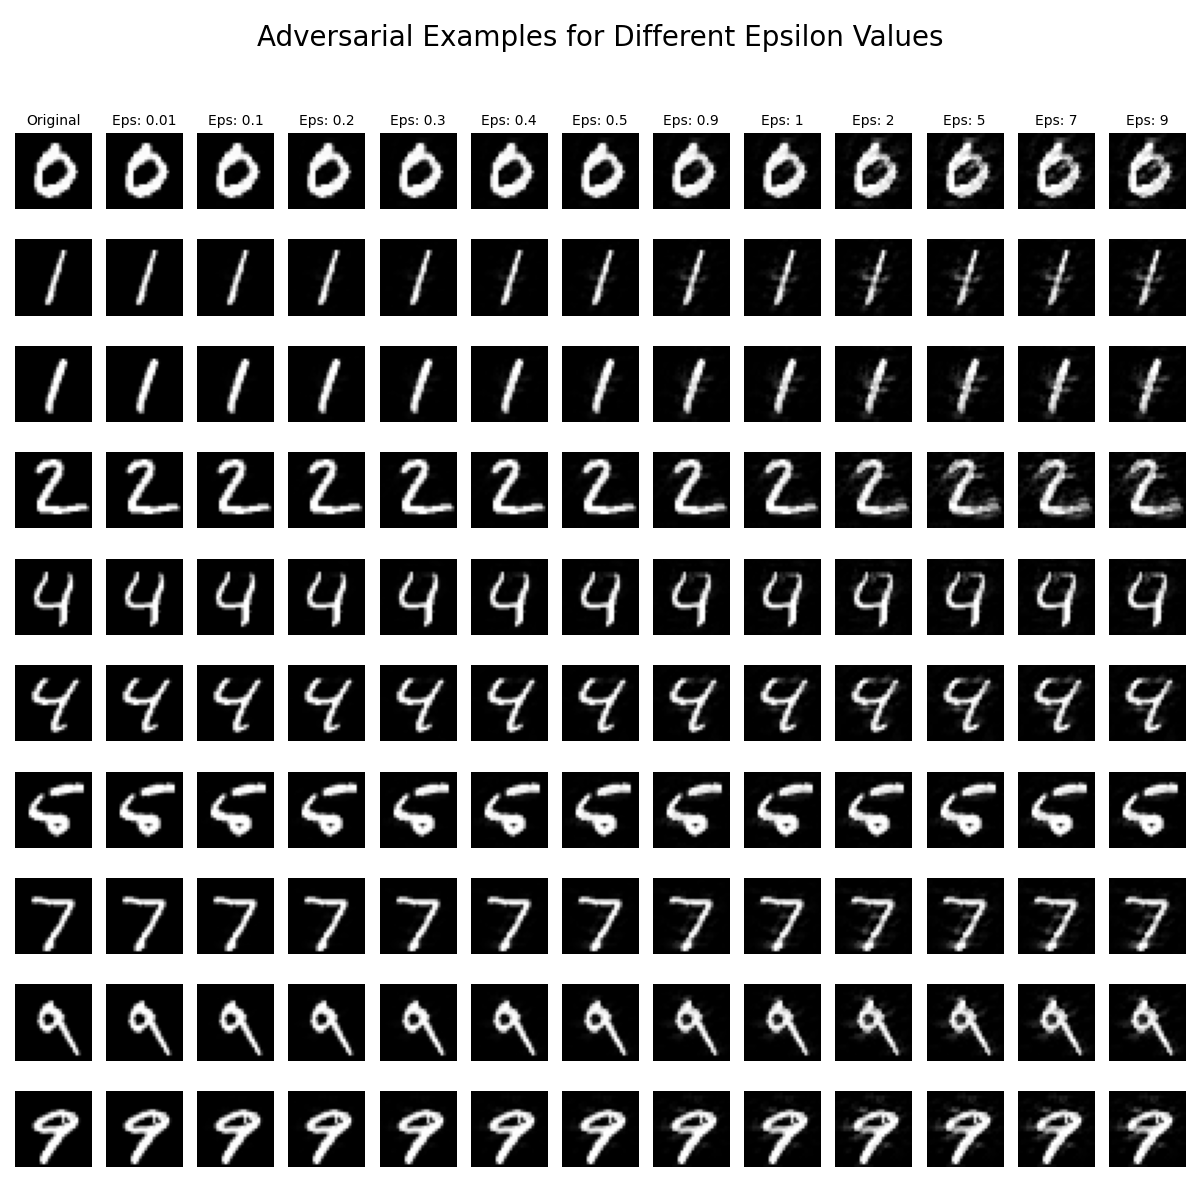
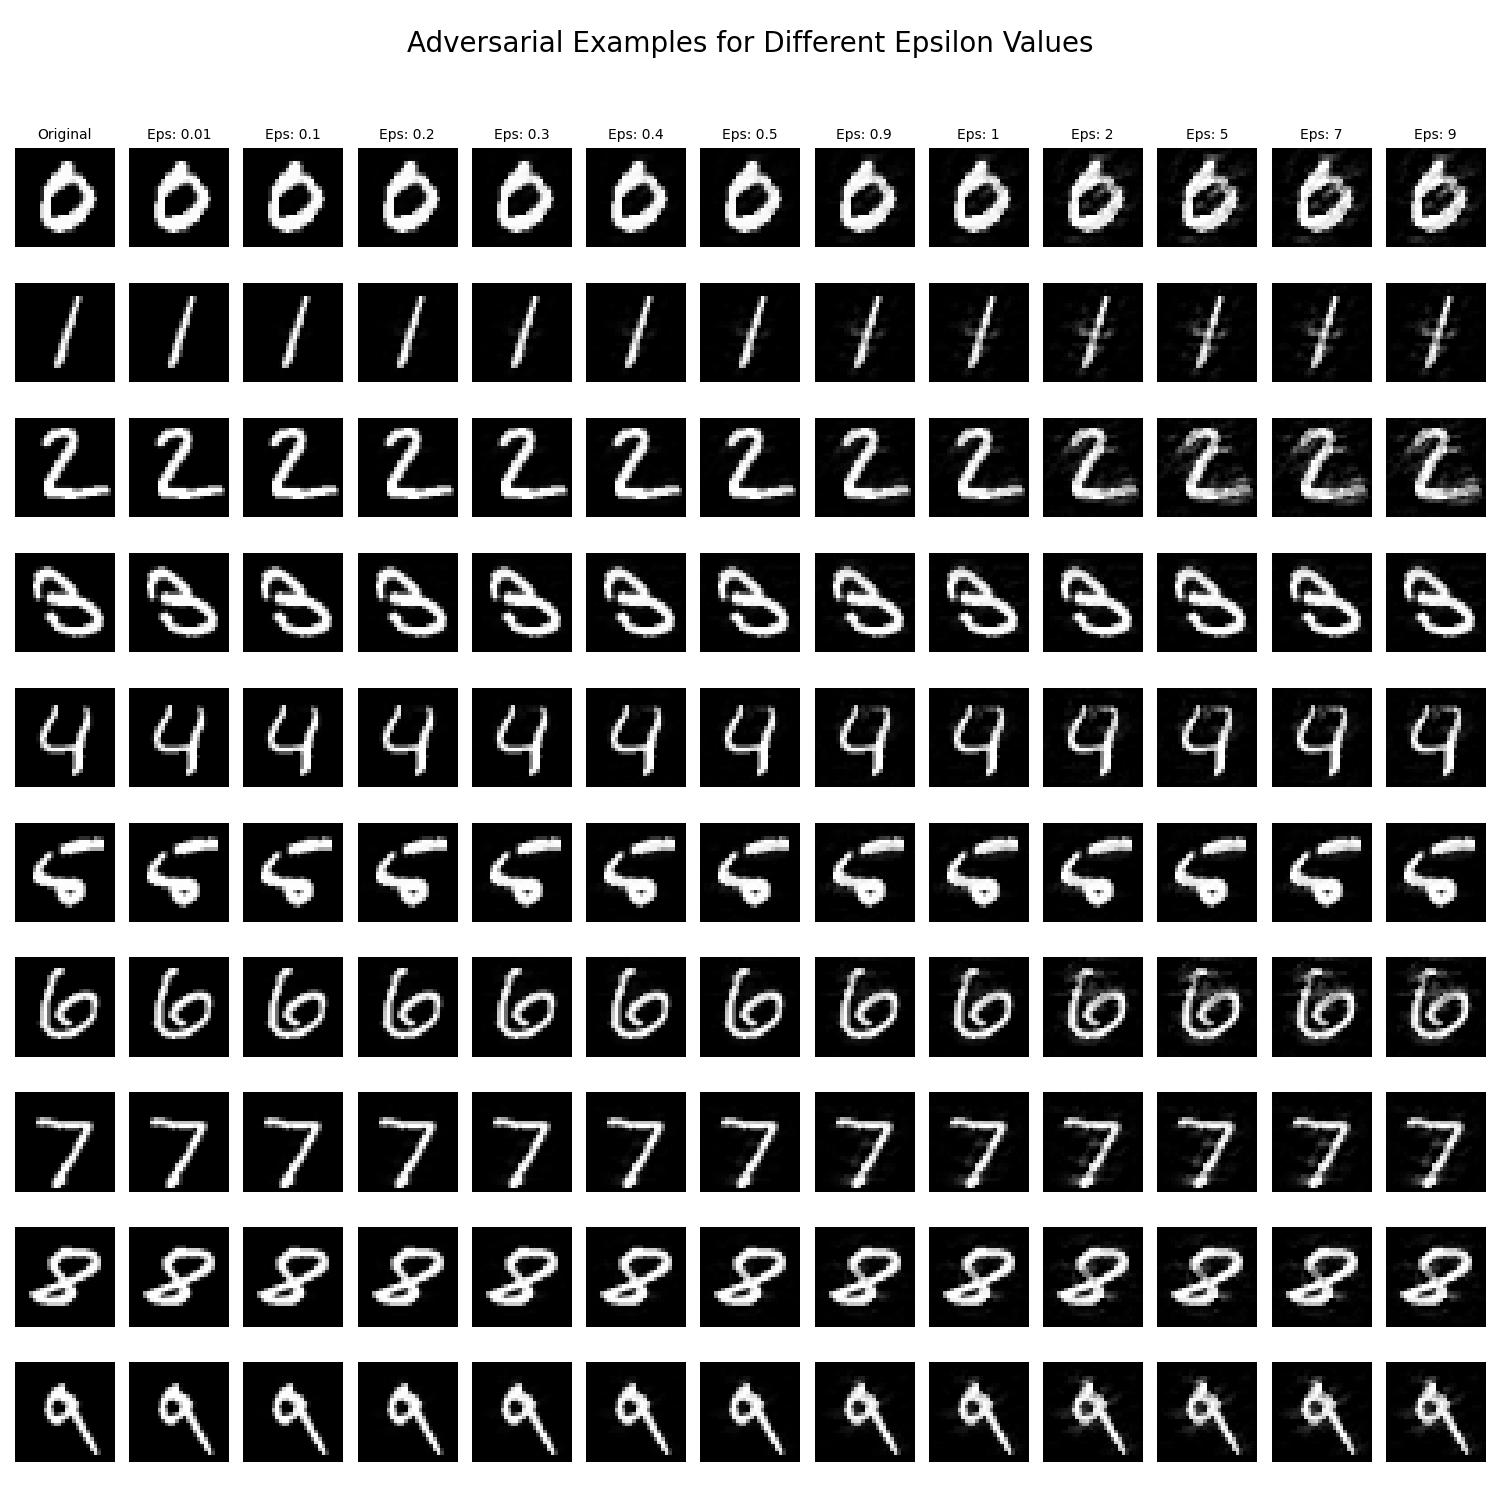
[edit] Fixed missing values in visualization

Changed region(s): [[0.0, 0.0, 1.0, 0.9867], [0.0, 0.925, 0.5242, 0.9867]]

diff --git a/adversarial_machine_learning/adversarial.py b/adversarial_machine_learning/adversarial.py
@@ -10,7 +10,7 @@ model_path = "mnist_cnn_model.h5"
 model = tf.keras.models.load_model(model_path)
 
 # Define preprocessing used by Foolbox
-preprocessing = dict(mean=0.0, std=1.0)  # Assuming the input is normalized in range [0, 1]
+preprocessing = dict(mean=0.0, std=1.0)
 
 # Wrap the model in a Foolbox model
 fmodel = fb.TensorFlowModel(model, bounds=(0, 1), preprocessing=preprocessing)
@@ -18,21 +18,34 @@ fmodel = fb.TensorFlowModel(model, bounds=(0, 1), preprocessing=preprocessing)
 # Load MNIST test data
 mnist = tf.keras.datasets.mnist
 (_, _), (x_test, y_test) = mnist.load_data()
-x_test = x_test.reshape(x_test.shape[0], 28, 28, 1).astype('float32') / 255.0  # Normalize to [0, 1]
 
-# Convert labels to int32 (important for compatibility with Foolbox)
-y_test = y_test.astype(np.int32)
+# Initialize arrays to store one example of each digit (0-9)
+unique_digits = {}
+for i in range(len(y_test)):
+    if y_test[i] not in unique_digits:
+        unique_digits[y_test[i]] = x_test[i]
+    # Stop once we have one of each digit
+    if len(unique_digits) == 10:
+        break
+
+# Prepare data for Foolbox attack
+x_selected = np.array([unique_digits[digit] for digit in range(10)])
+y_selected = np.array([digit for digit in range(10)])
+
+# Normalize and reshape the dataset
+x_selected = x_selected.reshape(x_selected.shape[0], 28, 28, 1).astype('float32') / 255.0
+y_selected = y_selected.astype(np.int32)
 
 # Convert data to EagerPy tensors backed by TensorFlow
-images = ep.astensor(tf.convert_to_tensor(x_test[:10]))  # Use a batch of 10 for example
-labels = ep.astensor(tf.convert_to_tensor(y_test[:10]))
+images = ep.astensor(tf.convert_to_tensor(x_selected))
+labels = ep.astensor(tf.convert_to_tensor(y_selected))
 
 # Clean accuracy
 clean_acc = fb.accuracy(fmodel, images, labels)
 print(f"Clean accuracy: {clean_acc * 100:.1f} %")
 
 # Apply the Fast Minimum Norm (FMN) attack
-attack = L2FMNAttack()  # You can also experiment with other norms (L0, L1, L2, Linf)
+attack = L2FMNAttack()
 epsilons = [0.01, 0.1, 0.2, 0.3, 0.4, 0.5, 0.9, 1, 2, 5, 7, 9]
 
 # Perform the attack
@@ -49,31 +62,26 @@ for eps, advs_, succ_ in zip(epsilons, clipped_adversarial, success):
 num_images = len(images)
 num_epsilons = len(epsilons)
 
-# Sort the images and labels based on the labels (ascending order from 0 to 9)
-sorted_indices = np.argsort(y_test[:num_images])
-sorted_images = images[sorted_indices]
-sorted_labels = y_test[sorted_indices]
-
 # Set up the figure to visualize the grid
-fig, axes = plt.subplots(num_images, num_epsilons + 1, figsize=(12, 12))
+fig, axes = plt.subplots(num_images, num_epsilons + 1, figsize=(15, 15))
 fig.suptitle('Adversarial Examples for Different Epsilon Values', fontsize=20)
 
 # Loop through each sample and each epsilon value
 for i in range(num_images):
     # Plot the original image in the first column
     ax = axes[i, 0]
-    original_img = sorted_images[i].numpy().squeeze()
+    original_img = images[i].numpy().squeeze()
     ax.imshow(original_img, cmap='gray')
-    if i == 0:  # Label the epsilon value on the top row
+    if i == 0:
         ax.set_title(f'Original', fontsize=10)
     ax.axis('off')
 
     # Plot the adversarial images for each epsilon value in subsequent columns
     for j in range(num_epsilons):
         ax = axes[i, j + 1]
-        adversarial_img = clipped_adversarial[j][sorted_indices[i]].numpy().squeeze()
+        adversarial_img = clipped_adversarial[j][i].numpy().squeeze()
         ax.imshow(adversarial_img, cmap='gray')
-        if i == 0:  # Label the epsilon value on the top row
+        if i == 0:
             ax.set_title(f'Eps: {epsilons[j]}', fontsize=10)
         ax.axis('off')
 
@@ -84,3 +92,4 @@ plt.subplots_adjust(wspace=0, hspace=0)
 plt.tight_layout(rect=[0, 0, 1, 0.96])
 plt.savefig('resources/adversarial_grid.png')
 plt.show()
+
